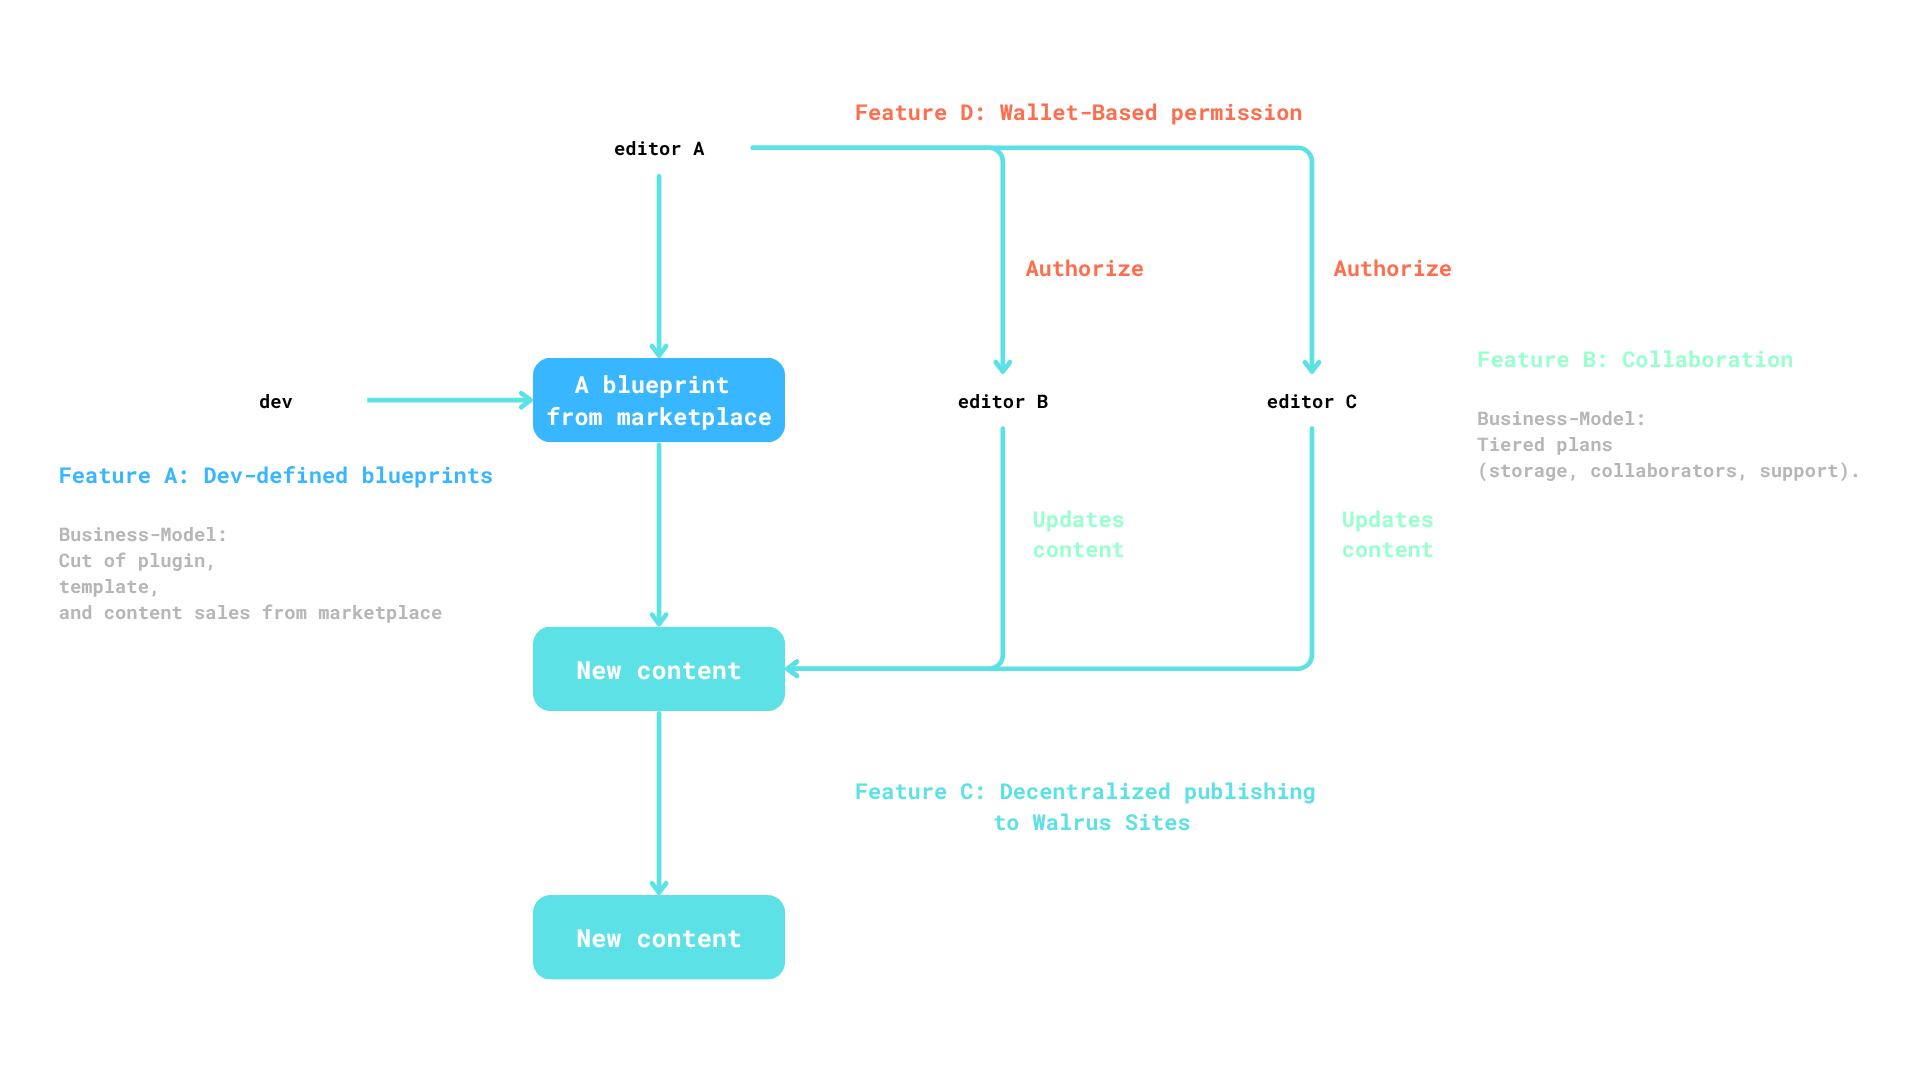
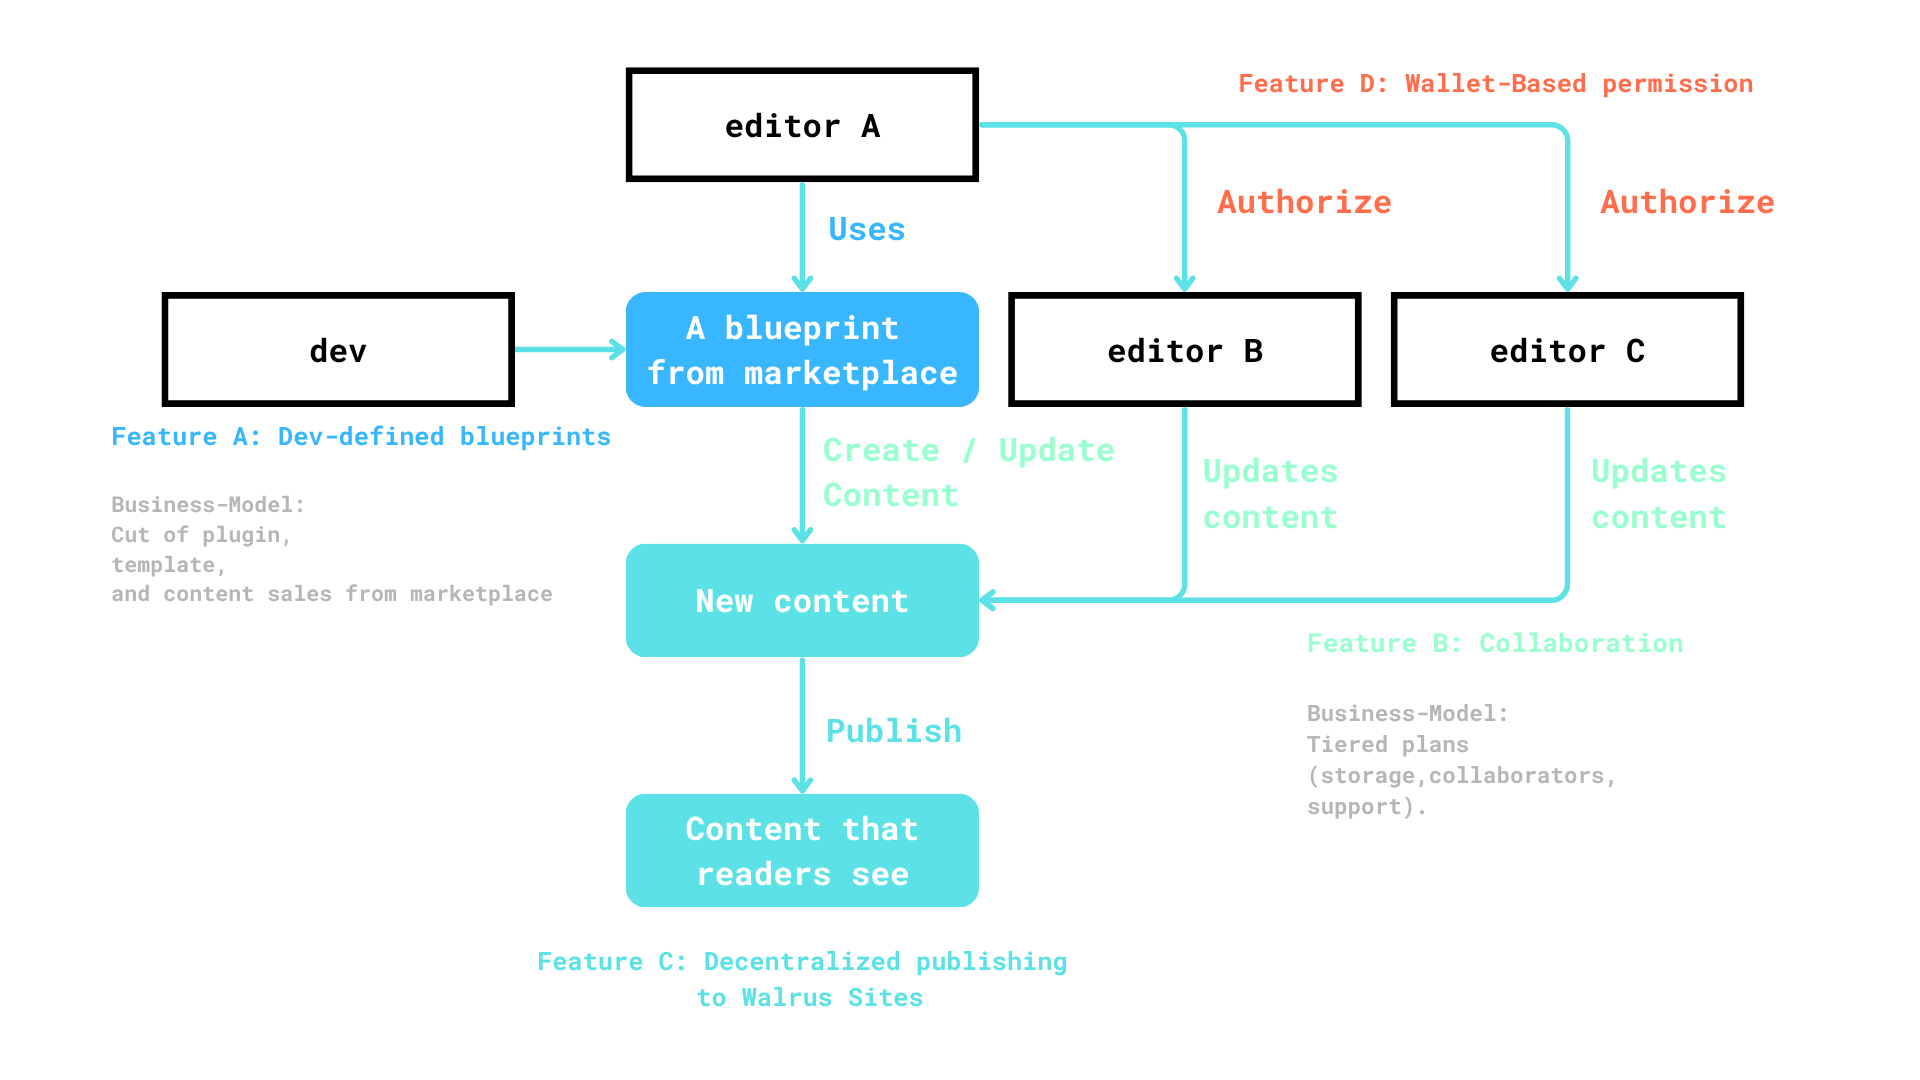
update architecture chart (#18)

diff --git a/src/WhitePaper.jsx b/src/WhitePaper.jsx
@@ -64,7 +64,7 @@ const Section = ({ section, isActive }) => {
         <div className="mb-8">
           <img
             src={section.preImage.src}
-            className="w-full max-w-4xl mx-auto rounded-lg border border-white/10 shadow-2xl"
+            className="w-full mx-auto"
           />
           {section.preImage.caption && (
             <p className="text-center text-sm text-gray-400 mt-3 font-mono">
@@ -114,7 +114,7 @@ const Section = ({ section, isActive }) => {
         <div className="mb-8">
           <img
             src={section.postImage.src}
-            className="w-full max-w-4xl mx-auto rounded-lg border border-white/10 shadow-2xl"
+            className="w-full mx-auto"
           />
           {section.postImage.caption && (
             <p className="text-center text-sm text-gray-400 mt-3 font-mono">
@@ -184,7 +184,7 @@ export default function WhitePaper({ onBackToHome }) {
 
       {/* White Paper Content */}
       <div className="relative z-10 h-full overflow-y-auto">
-        <div className="container mx-auto px-8 lg:px-32 pt-32 pb-16">
+        <div className="container mx-auto px-4 lg:px-8 pt-32 pb-16">
           <div className="max-w-7xl mx-auto">
             {/* Header */}
             <div className="text-center mb-16">
@@ -201,7 +201,7 @@ export default function WhitePaper({ onBackToHome }) {
             </div>
 
             {/* Content Layout */}
-            <div className="grid lg:grid-cols-4 gap-8">
+            <div className="grid lg:grid-cols-5 gap-8">
               {/* Table of Contents - Sidebar */}
               <div className="lg:col-span-1">
                 <TableOfContents
@@ -212,7 +212,7 @@ export default function WhitePaper({ onBackToHome }) {
               </div>
 
               {/* Main Content */}
-              <div className="lg:col-span-3">
+              <div className="lg:col-span-4">
                 <Section
                   section={WhitePaperSections[activeSection]}
                   isActive={true}
